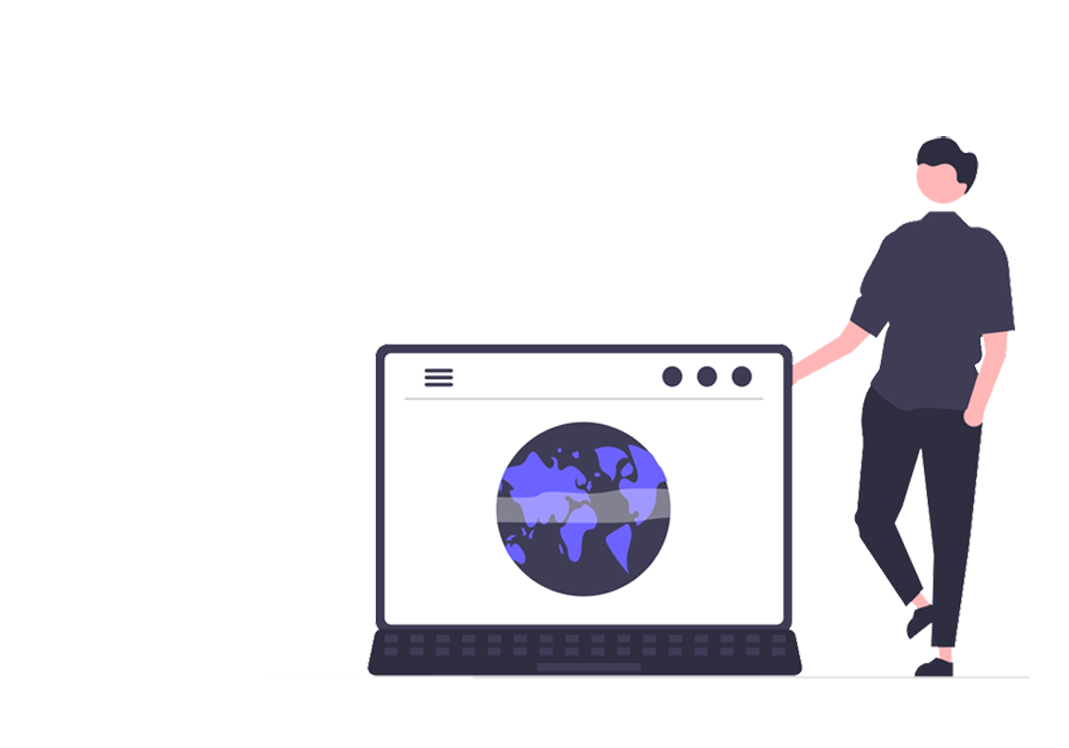
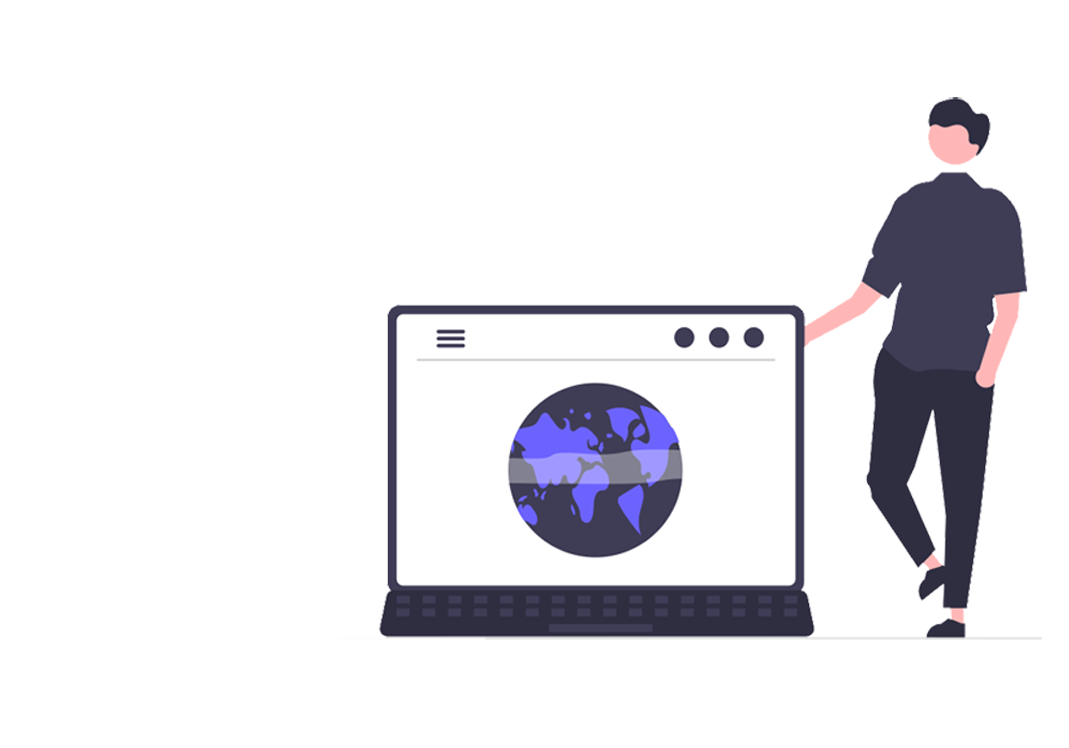
solving sign button

Changed region(s): [[0.3396, 0.123, 0.957, 0.9225]]

diff --git a/resources/views/welcome.blade.php b/resources/views/welcome.blade.php
@@ -249,8 +249,8 @@
                         <img class="lg:absolute lg:block hidden bottom-0 right-0"
                             src="http://api.elements.buildwithangga.com/storage/files/2/assets/Header/Header3/Header-3-1.png"
                             alt="" />
-                        <img class="absolute top-10 lg:block hidden lg:right-25 md:right-15 sm:right-8 right-8"
-                            src="{{ asset('image/hero.png') }}"
+                        <img class="absolute top-20 lg:block hidden lg:right-25 md:right-15 sm:right-8 right-8"
+                            src="{{ asset('image/gambar.png') }}"
                             alt="" />
 
                     </div>
